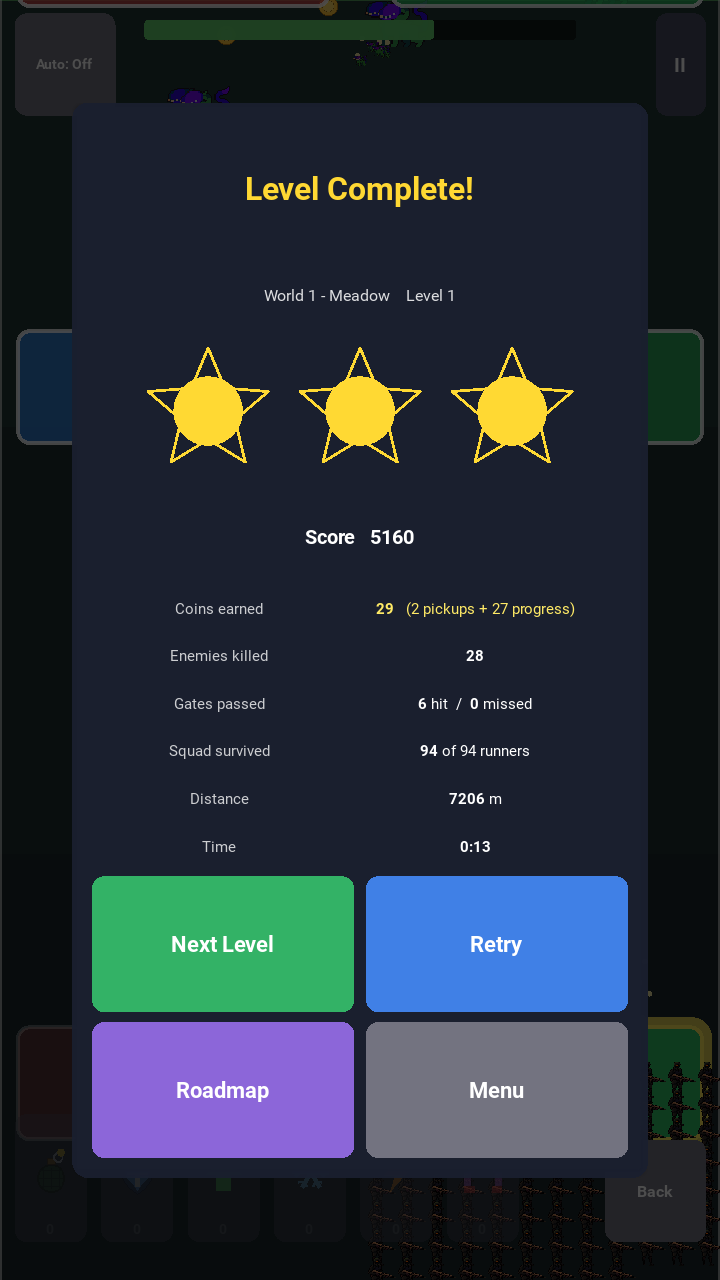
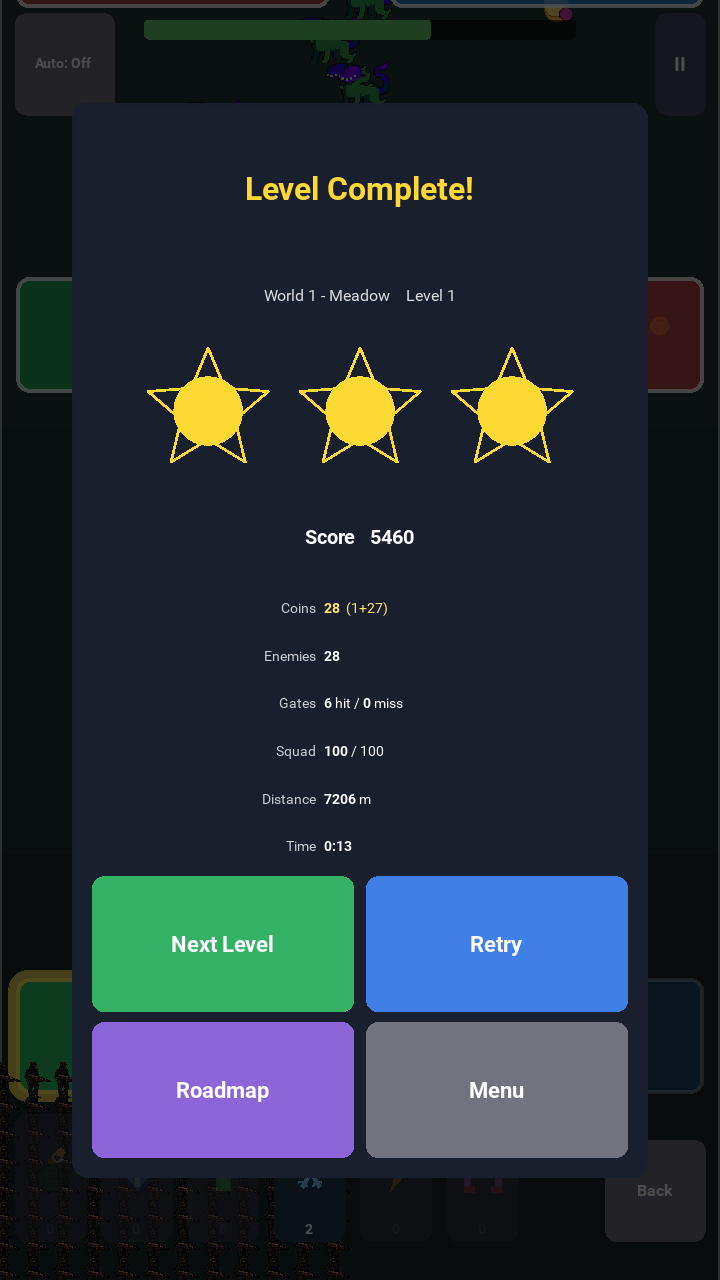
Fix text layout

diff --git a/ui.py b/ui.py
@@ -195,6 +195,8 @@ class StyledButton(ButtonBehavior, Label):
         kwargs.setdefault("font_size", sp(22))
         kwargs.setdefault("bold", True)
         kwargs.setdefault("color", [1, 1, 1, 1])
+        kwargs.setdefault("halign", "center")
+        kwargs.setdefault("valign", "middle")
         super().__init__(**kwargs)
         with self.canvas.before:
             self._color = Color(*self.bg)
@@ -204,6 +206,10 @@ class StyledButton(ButtonBehavior, Label):
     def _sync(self, *_):
         self._rect.pos = self.pos
         self._rect.size = self.size
+        # Constrain the text box to the button so a long caption (e.g.
+        # "Next Level") wraps/centres inside the rounded rect instead of
+        # spilling outside it. Works at any button size.
+        self.text_size = (max(0, self.width - dp(12)), self.height)
 
     def _sync_color(self, *_):
         self._color.rgba = self.bg
@@ -456,19 +462,27 @@ def _format_time(seconds: float) -> str:
     return "{}:{:02d}".format(s // 60, s % 60)
 
 
+def _fit_label(lbl):
+    """Bind a label's text box to its own widget size so halign/valign take
+    effect and the text wraps *inside* its cell instead of overflowing onto
+    the neighbouring column. Robust at any modal/screen size. Returns the label
+    so it can be wrapped inline: grid.add_widget(_fit_label(Label(...)))."""
+    lbl.bind(size=lambda inst, _val: setattr(inst, "text_size", inst.size))
+    return lbl
+
+
 def _add_stat_row(grid, label_text: str, value_text: str, *,
                   value_color=(1, 1, 1, 1)) -> None:
-    """Helper to keep the two-column stat layout consistent."""
-    grid.add_widget(Label(
-        text=label_text, font_size=sp(15), color=(1, 1, 1, 0.78),
-        halign="right", valign="middle", size_hint_x=0.45,
-        text_size=(None, None),
-    ))
-    grid.add_widget(Label(
-        text=value_text, font_size=sp(15), color=value_color,
-        halign="left", valign="middle", size_hint_x=0.55,
-        markup=True, text_size=(None, None),
-    ))
+    """Helper to keep the two-column stat layout consistent. text_size is bound
+    to each cell (via _fit_label) so the value can never overlap the label."""
+    grid.add_widget(_fit_label(Label(
+        text=label_text, font_size=sp(14), color=(1, 1, 1, 0.78),
+        halign="right", valign="middle", size_hint_x=0.42,
+    )))
+    grid.add_widget(_fit_label(Label(
+        text=value_text, font_size=sp(14), color=value_color,
+        halign="left", valign="middle", size_hint_x=0.58, markup=True,
+    )))
 
 
 class LevelResultDialog(ModalView):
@@ -506,11 +520,11 @@ class LevelResultDialog(ModalView):
                 star_holder.add_widget(StarRow(stars=stars, size_hint=(1, 1)))
                 box.add_widget(star_holder)
             else:
-                box.add_widget(Label(
+                box.add_widget(_fit_label(Label(
                     text="Your squad fell to the swarm. Try a steadier path through the gates.",
                     font_size=sp(14), color=(1, 1, 1, 0.85),
                     halign="center", valign="middle", size_hint_y=0.16,
-                ))
+                )))
 
         box.add_widget(Label(text="Score   {}".format(score),
                              font_size=sp(20), bold=True, color=(1, 1, 1, 1),
@@ -527,14 +541,14 @@ class LevelResultDialog(ModalView):
                                   size_hint_y=0.42,
                                   padding=(dp(8), 0, dp(8), 0))
                 grid.add_widget(Label(text="", size_hint_x=0.40))
-                grid.add_widget(Label(text="YOU", font_size=sp(13), bold=True,
+                grid.add_widget(_fit_label(Label(text="YOU", font_size=sp(13), bold=True,
                                       color=(0.40, 0.85, 0.50, 1.0),
                                       halign="center", valign="middle",
-                                      size_hint_x=0.30))
-                grid.add_widget(Label(text="OPP", font_size=sp(13), bold=True,
+                                      size_hint_x=0.30)))
+                grid.add_widget(_fit_label(Label(text="OPP", font_size=sp(13), bold=True,
                                       color=(0.95, 0.45, 0.45, 1.0),
                                       halign="center", valign="middle",
-                                      size_hint_x=0.30))
+                                      size_hint_x=0.30)))
                 rows = [
                     ("Score",   score if score is not None else 0,
                                 opponent_score if opponent_score is not None else 0,
@@ -563,20 +577,20 @@ class LevelResultDialog(ModalView):
                                 (1, 1, 1, 1)),
                 ]
                 for label, you_v, opp_v, accent in rows:
-                    grid.add_widget(Label(
+                    grid.add_widget(_fit_label(Label(
                         text=label, font_size=sp(14), color=(1, 1, 1, 0.78),
                         halign="right", valign="middle", size_hint_x=0.40,
-                    ))
-                    grid.add_widget(Label(
+                    )))
+                    grid.add_widget(_fit_label(Label(
                         text="[b]{}[/b]".format(you_v), font_size=sp(14),
                         bold=True, color=accent, markup=True,
                         halign="center", valign="middle", size_hint_x=0.30,
-                    ))
-                    grid.add_widget(Label(
+                    )))
+                    grid.add_widget(_fit_label(Label(
                         text="[b]{}[/b]".format(opp_v), font_size=sp(14),
                         bold=True, color=accent, markup=True,
                         halign="center", valign="middle", size_hint_x=0.30,
-                    ))
+                    )))
                 box.add_widget(grid)
             else:
                 grid = GridLayout(cols=2, spacing=(dp(8), dp(4)),
@@ -586,20 +600,20 @@ class LevelResultDialog(ModalView):
                 coin_total = stats.get("coins_total", 0)
                 coin_pickup = stats.get("coins_pickup", 0)
                 coin_other = coin_total - coin_pickup
-                coin_value = "[b]{}[/b]   ({} pickups + {} progress)".format(
+                coin_value = "[b]{}[/b]  ({}+{})".format(
                     coin_total, coin_pickup, coin_other,
                 )
-                _add_stat_row(grid, "Coins earned", coin_value,
+                _add_stat_row(grid, "Coins", coin_value,
                               value_color=(1.0, 0.92, 0.40, 1.0))
-                _add_stat_row(grid, "Enemies killed",
+                _add_stat_row(grid, "Enemies",
                               "[b]{}[/b]".format(stats.get("kills", 0)))
-                _add_stat_row(grid, "Gates passed",
-                              "[b]{}[/b] hit  /  [b]{}[/b] missed".format(
+                _add_stat_row(grid, "Gates",
+                              "[b]{}[/b] hit / [b]{}[/b] miss".format(
                                   stats.get("gates_hit", 0),
                                   stats.get("gates_missed", 0),
                               ))
-                _add_stat_row(grid, "Squad survived",
-                              "[b]{}[/b] of {} runners".format(
+                _add_stat_row(grid, "Squad",
+                              "[b]{}[/b] / {}".format(
                                   stats.get("squad_end", 0),
                                   stats.get("squad_peak", 0),
                               ))
